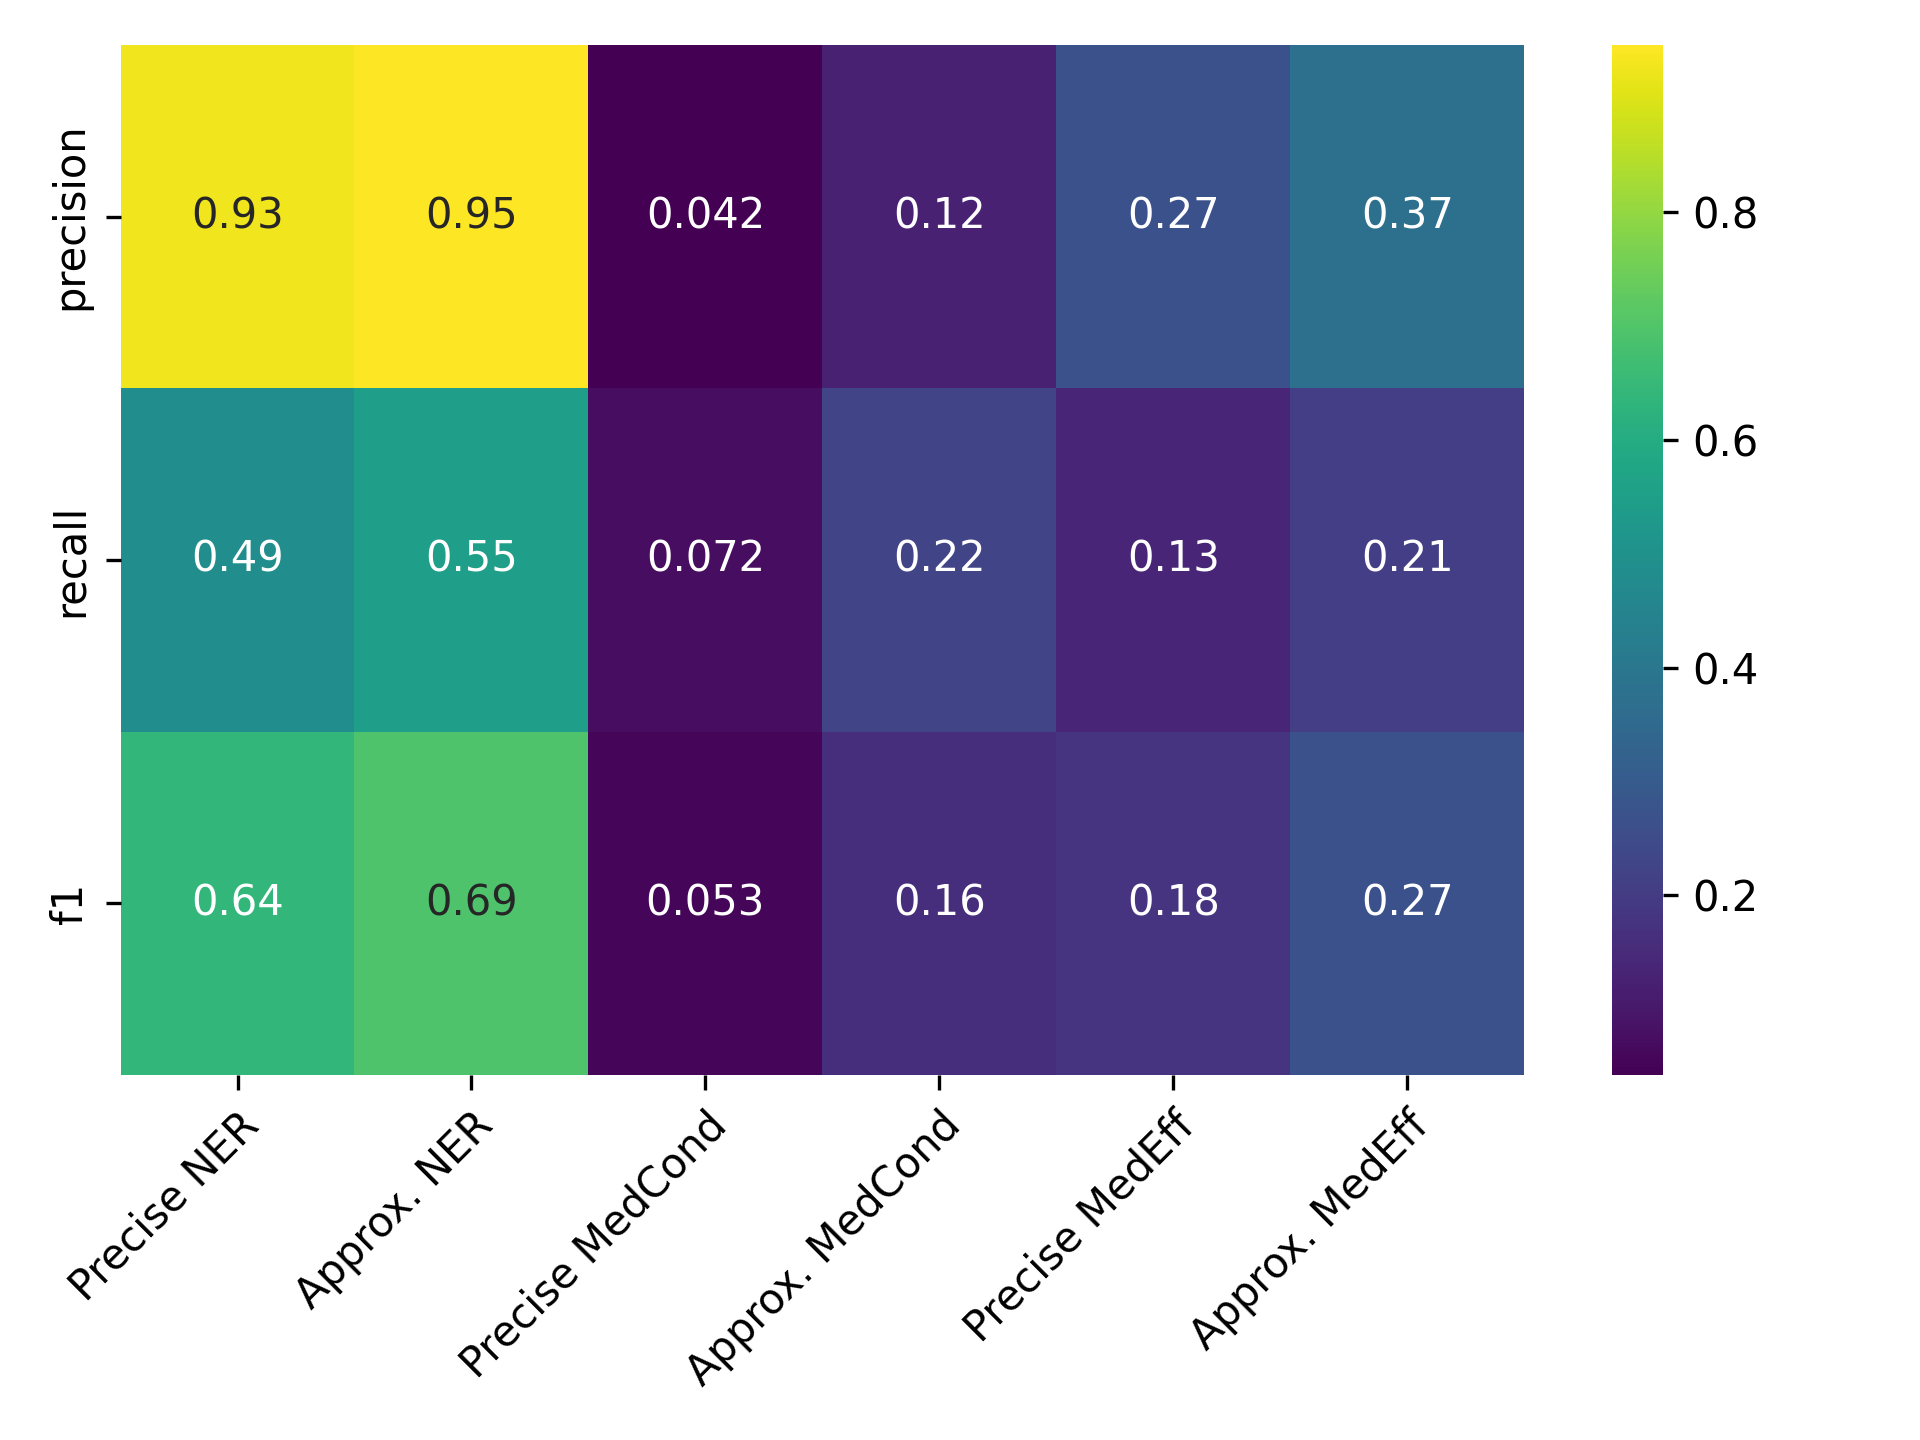
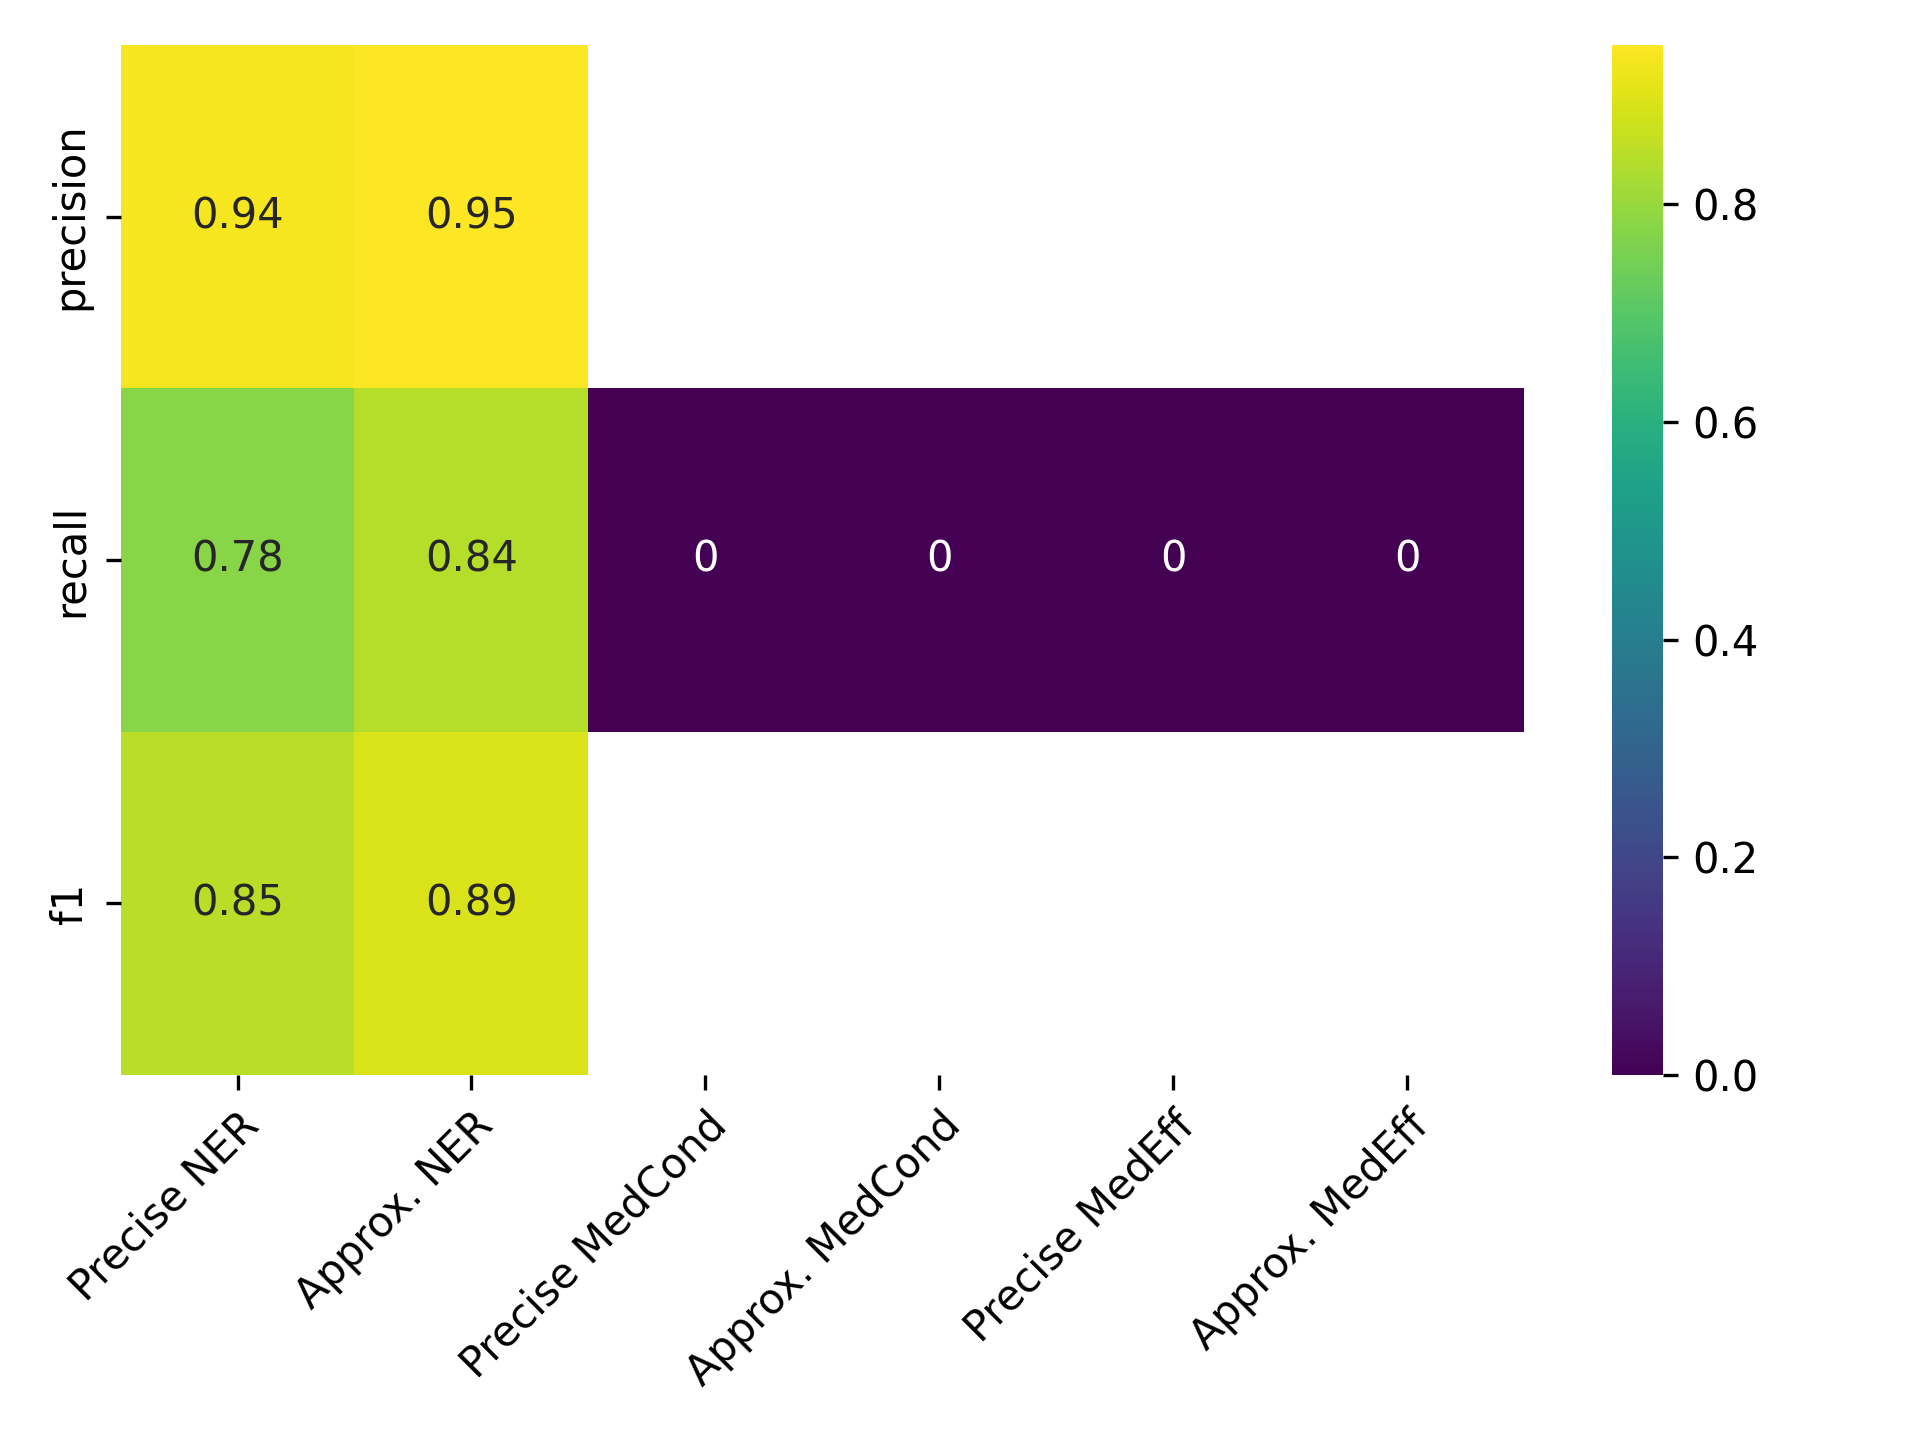
Hparam run without examples. Overall examples improve RE, though it is a little mixed. Claude, Gemini and GPT perform better on RE with examples while llama performs better without examples. All models get better at NER without examples, except GPT

diff --git a/rag_models/running_models.py b/rag_models/running_models.py
@@ -29,7 +29,7 @@ def query_a_model(model, text_file: str, context_window: int, pkl_dump: str = No
     try:
 
         extractions = extractor.batch(
-            [{"text": text, "examples": examples} for text in text_chunks],
+            [{"text": text} for text in text_chunks],
             {"max_concurrency": 1},  # limit the concurrency by passing max concurrency! Otherwise Requests rate limit exceeded
         )
     except (langchain_core.exceptions.OutputParserException, pydantic_core._pydantic_core.ValidationError) as e:
@@ -43,13 +43,13 @@ def query_a_model(model, text_file: str, context_window: int, pkl_dump: str = No
         extractions = []
         for text in new_chunks:
             try:
-                chunk_output = extractor.invoke({"text": text, "examples": examples})
+                chunk_output = extractor.invoke({"text": text})
                 extractions.append(chunk_output)
             except Exception as e:
                 more_chunks = split_text_chunks([text])
                 for more_text in more_chunks:
                     try:
-                        chunk_output = extractor.invoke({"text": more_text, "examples": examples})
+                        chunk_output = extractor.invoke({"text": more_text})
                         extractions.append(chunk_output)
                     except Exception as e:
                         print(f'Unknown error "{e}" for text with length {len(more_text)}: {more_text}')

diff --git a/rag_models/rag_prompting.py b/rag_models/rag_prompting.py
@@ -19,7 +19,7 @@ standard_medicinal_prompt = ChatPromptTemplate.from_messages(
             "If you do not know the value of an attribute asked to extract, return null for the attribute's value. "
         ),
         # ↓↓↓↓↓↓↓↓↓↓↓↓↓↓↓↓↓↓↓↓↓↓↓↓↓↓↓↓
-        MessagesPlaceholder("examples"),  # <-- EXAMPLES!
+        # MessagesPlaceholder("examples"),  # <-- EXAMPLES!
         # ↑↑↑↑↑↑↑↑↑↑↑↑↑↑↑↑↑↑↑↑↑↑↑↑↑↑↑↑↑
         ("human", "{text}"),
     ]
